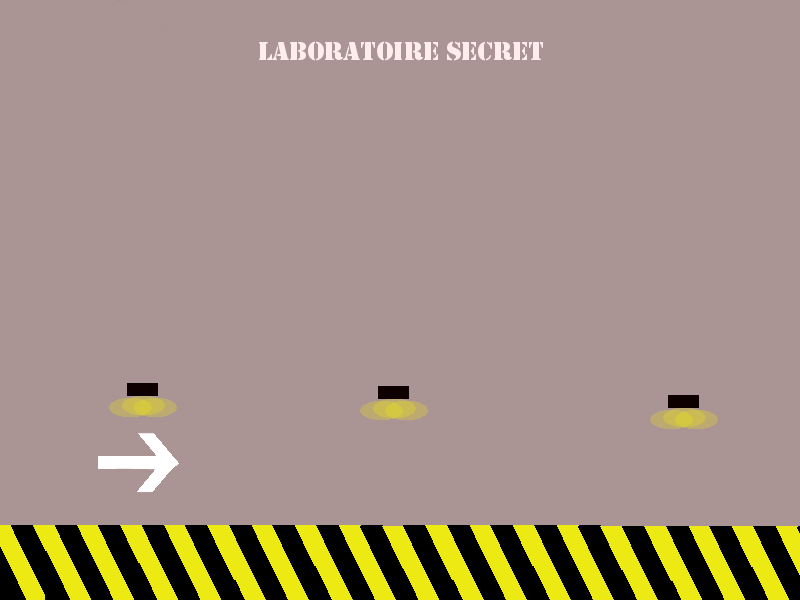
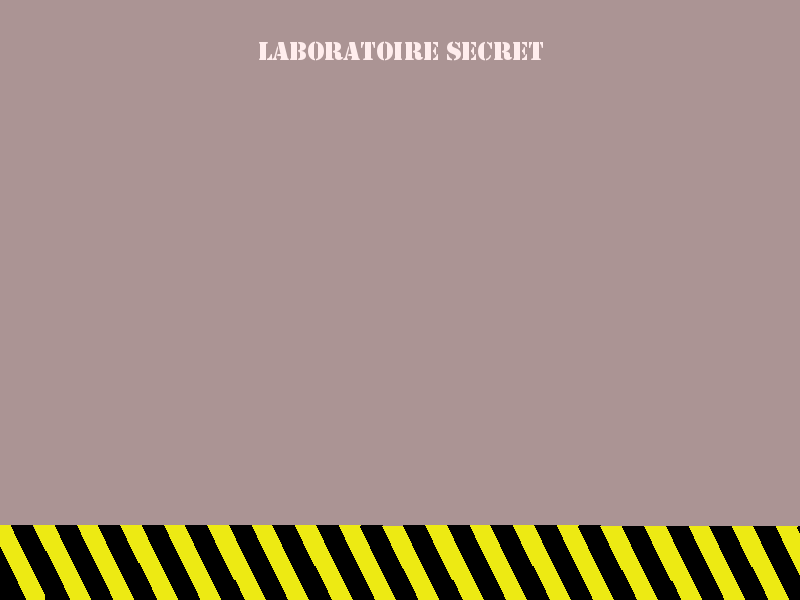
fond

Changed region(s): [[0.125, 0.63, 0.2188, 0.84], [0.4375, 0.63, 0.5312, 0.72], [0.8125, 0.66, 0.9062, 0.72]]

diff --git a/game.py b/game.py
@@ -56,6 +56,8 @@ class Game:
         coin = Coin(100,100,self)
         coin.add(self.all_sprites, self.all_game_objects, self.projectiles)
 
+        self.fond_image=pygame.transform.scale(pygame.image.load("assets/fond.png"), (800, 350)).convert_alpha()
+
     def initialize_level(self):
         floor = Block(x = 0, y = 380, width=self.MAX_X, game = self)
         floor.add(self.all_sprites, self.all_game_objects, self.collide_with_player, self.platforms)
@@ -112,7 +114,8 @@ class Game:
             self.all_sprites.draw(self.display)
 
             #Draw background
-            self.display.fill((0,255,0))
+            self.display.blit(self.fond_image, (0,50))
+            #self.display.fill((0,255,0))
 
             #Draw sprites, in respect of their layers
             for layer in self.layers_list:
